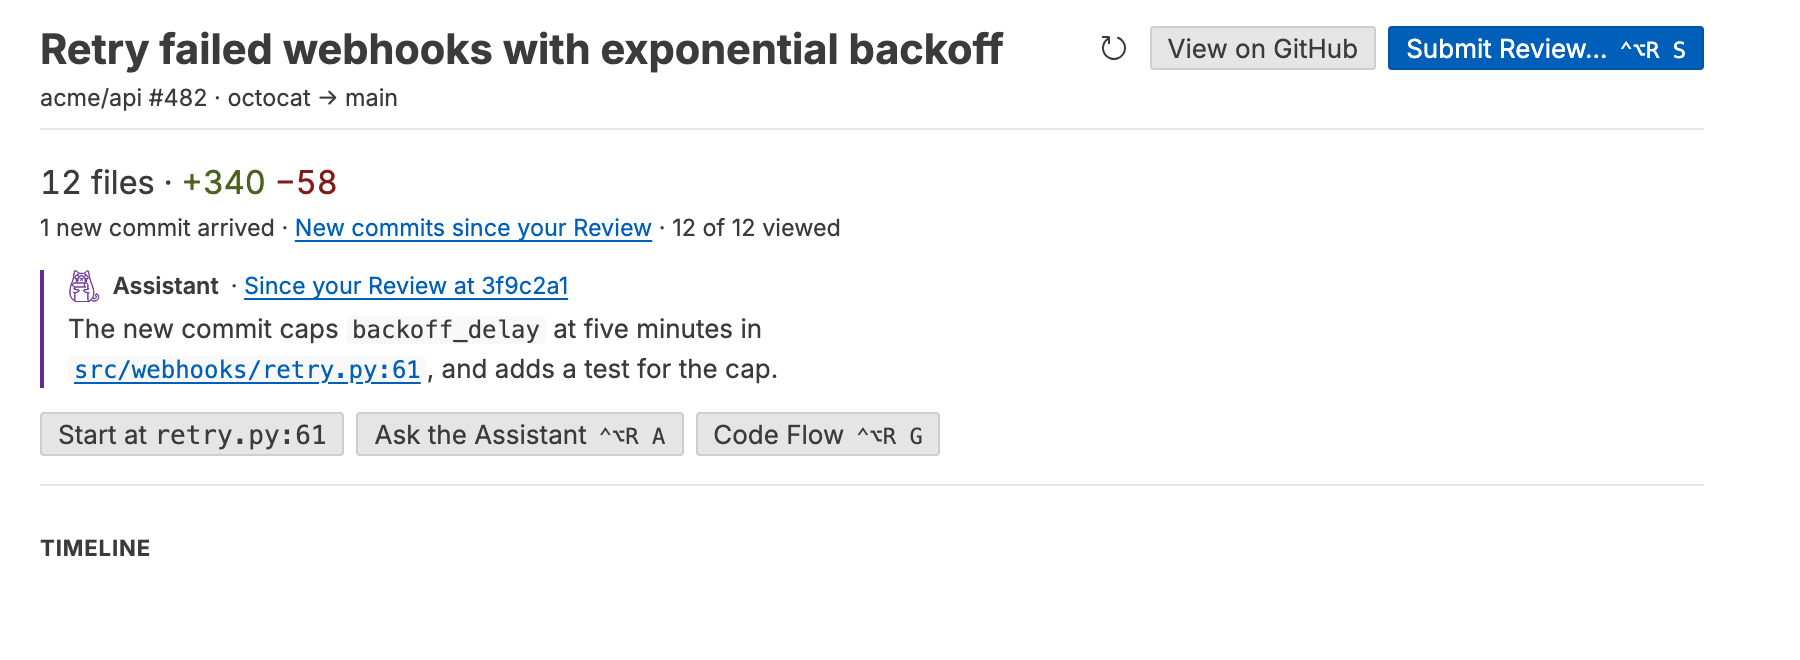
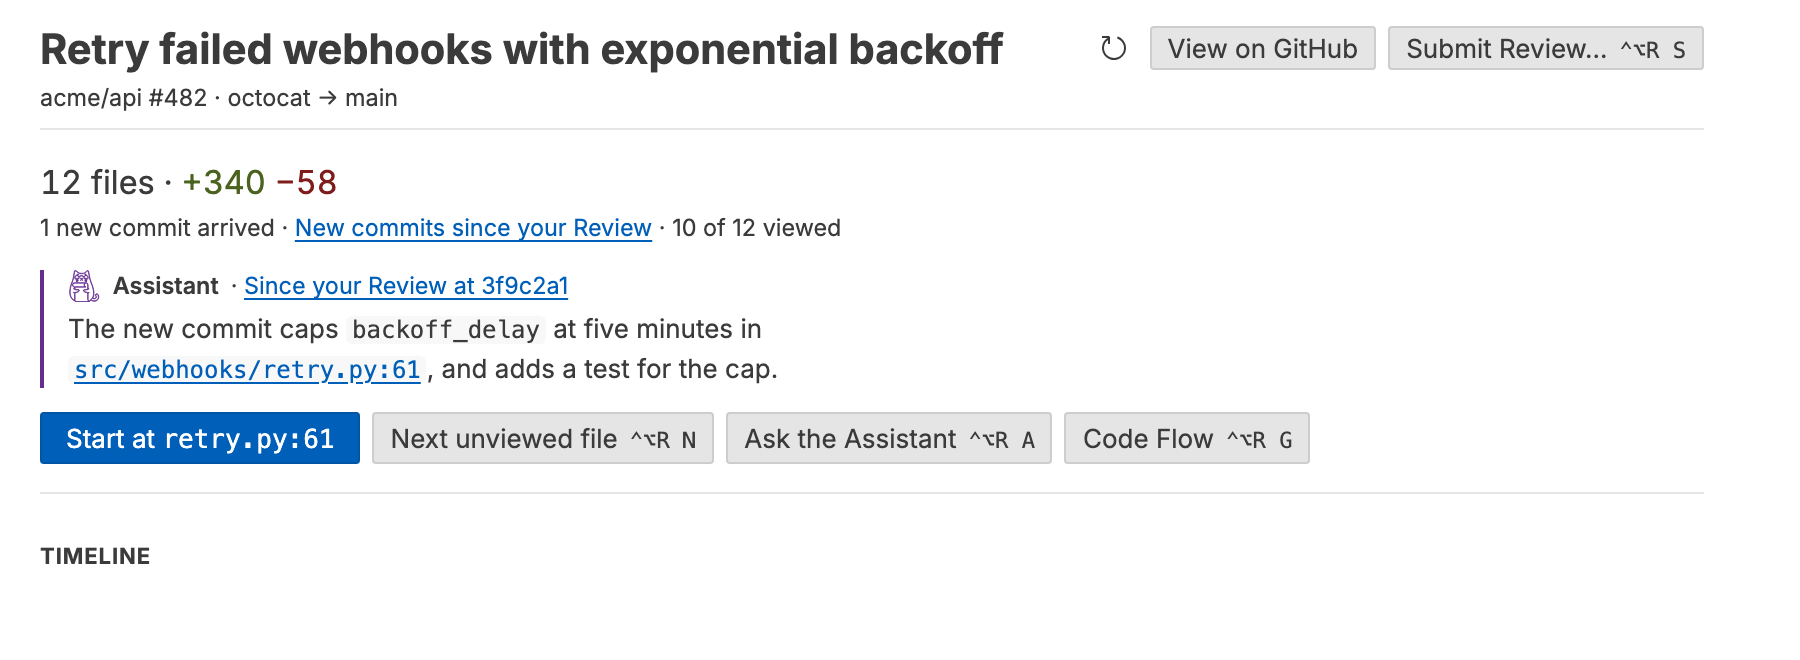
chore(walkthrough): redraw the walkthroughs' images with the review tools
The re-review scene leaves files to read again, as new commits do, and the
reading step's alt text names the Code Flow button.

diff --git a/extension/test/suite/sinceLastReview/sinceLastReview.test.ts b/extension/test/suite/sinceLastReview/sinceLastReview.test.ts
@@ -42,7 +42,12 @@ import {
   short,
   workspaceFolders,
 } from "../reviewer";
-import { clickOverview, sentTimeline, standingWords } from "../timeline";
+import {
+  clickOverview,
+  sentTimeline,
+  showTimeline,
+  standingWords,
+} from "../timeline";
 
 const viewer = { login: "reviewer", token: "test-token" };
 const settingKeys = ["githubApiUrl", "repositories", "localClones"];
@@ -443,9 +448,9 @@ describe("What changed since your last Review", () => {
   });
 
   it("opens the same diff from the overview's note of new commits", async () => {
-    await vscode.commands.executeCommand("workbench.action.closeAllEditors");
-
-    await clickOverview("acme/since #41", "showChangesSince");
+    // The test before closed every editor, the overview with them.
+    await showTimeline(requestAt(newHead));
+    await eventually(() => clickOverview("acme/since #41", "showChangesSince"));
 
     await eventually(() =>
       assert.strictEqual(

diff --git a/extension/test/suite/codeFlow/codeFlow.test.ts b/extension/test/suite/codeFlow/codeFlow.test.ts
@@ -212,7 +212,8 @@ describe("Code Flow", () => {
     open.push(change);
     disposables.push(fakeShellServer({ callees: { helper: ["run_main"] } }));
     await openChange(change.request);
-    await clickOverview(change.title, "codeFlow");
+    // The overview opens once the Change has, a moment after.
+    await eventually(() => clickOverview(change.title, "codeFlow"));
     await eventually(async () =>
       assert.ok(
         (await codeFlowPanel(change.title))?.viewColumn,

diff --git a/extension/test/walkthrough/scenes.ts b/extension/test/walkthrough/scenes.ts
@@ -362,9 +362,9 @@ export const scenes: Scene[] = [
             text: "New commits since your Review",
             action: "showChangesSince",
           },
-          "12 of 12 viewed",
+          "10 of 12 viewed",
         ],
-        progress: { viewed: 12, total: 12 },
+        progress: { viewed: 10, total: 12 },
         take: {
           label: "Since your Review at 3f9c2a1",
           since: true,
